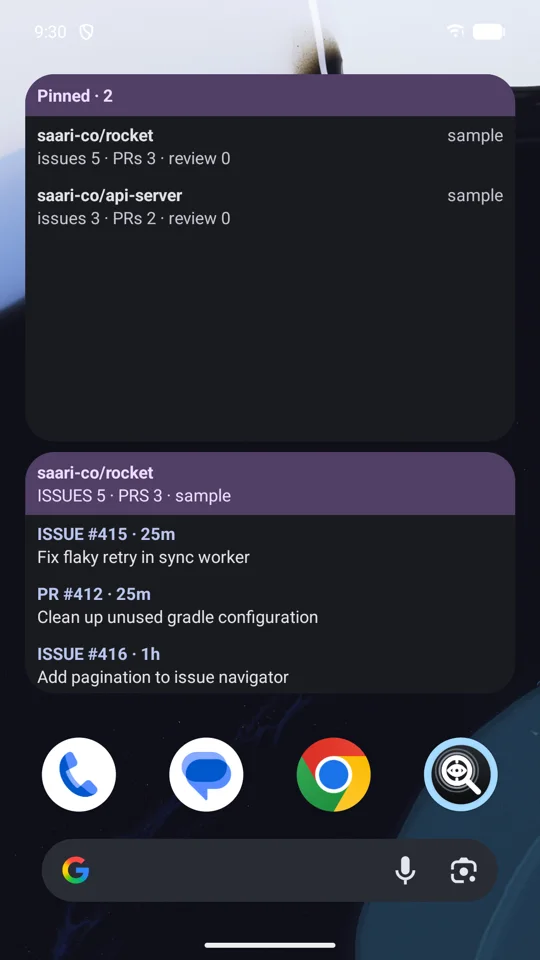
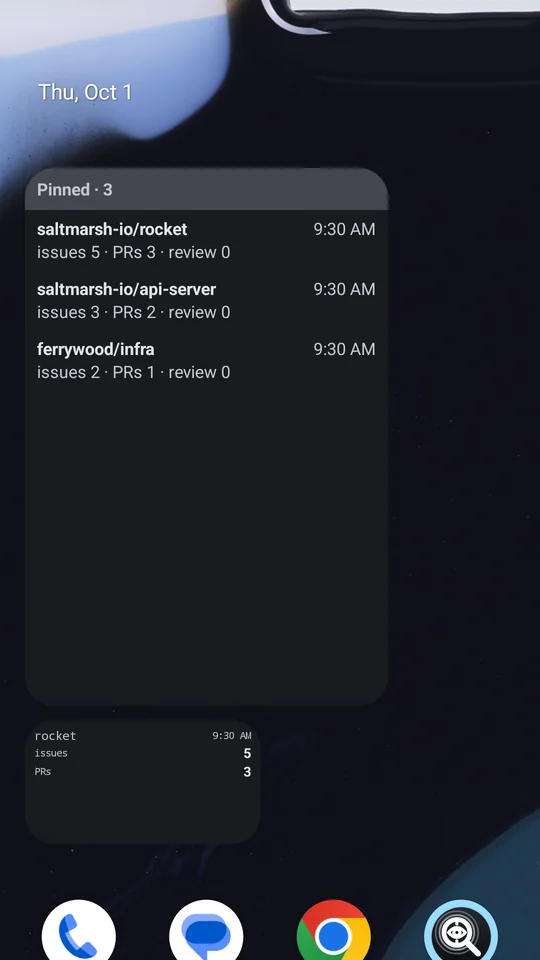
Imagery: implement site-imagery-007 (showcase captures, cut-out cards, the sign-in code screen)
The maintainer's hybrid from imagery round 1, locked 2026-10-01: candidate
C (cut-outs) with the sign-in code screen on the fourth home card and as
the join-page hero; that card's copy amended to describe GitHub's device
flow so it matches its image (site-copy-006, reopened and re-locked).
Images are RepoGlance's showcase-048 emulator captures (sample mode
without its marker under fictional owners; the sign-in code is a fixture),
cut into thirteen slugs at 540 and 1080 px; public/screenshots/ replaces
the Play listing's sample-mode captures. seed/seed.json carries the slugs
and the card; src/content/screenshots.ts the alt text and dimensions;
Screenshot.astro data-shot and per-slug sizes; site.css the cut-out
cards. AGENTS.md, docs/CHARTER.md, design.md v3 and docs/content.md state
the new imagery rule and sources; the content test and the smoke script
check the showcase assets, alt text and card images.

diff --git a/src/content/screenshots.ts b/src/content/screenshots.ts
@@ -1,29 +1,76 @@
 /**
- * The only images the site shows: sample-mode captures from the Play listing
- * release repoglance-play-listing-20260930-040 (docs/content.md). Every file
- * is 9:16; the 540 and 1080 widths serve a srcset.
+ * The only images the site shows: RepoGlance's showcase captures (GrillTrack
+ * site-imagery-007; the app's showcase-048): sample mode rendered without
+ * its marker under fictional owners on the approved emulator, so no screen
+ * shows a real account and no screen says sample. The sign-in code is a
+ * fixture. docs/content.md names the source release and hashes. Each slug
+ * ships at 540 and 1080 px wide; the dimensions are the 540 px file's.
  */
 export const screenshots = {
   'home-widgets': {
-    alt: 'A Pixel home screen with the RepoGlance Pinned repos widget listing two sample repositories and a tall Repository widget, every time slot reading sample',
+    width: 540,
+    height: 960,
+    alt: 'A Pixel home screen with the RepoGlance Pinned repos widget listing three made-up repositories and the compact Repository widget below it, each row with the time of its data and its open issue and pull request counts',
   },
   'catalog-pinned': {
-    alt: 'The RepoGlance catalog in sample mode: a SAMPLE banner, then pinned repositories sorted first with their open issue and pull request counts',
+    width: 540,
+    height: 960,
+    alt: 'The RepoGlance catalog: made-up repositories under fictional owners, pinned ones first, with the account filter, search and sort',
   },
   'repository-issues-and-prs': {
-    alt: 'A sample repository in RepoGlance showing its open issues and pull requests in one list',
+    width: 540,
+    height: 960,
+    alt: 'A made-up repository in RepoGlance showing its open issues and pull requests in one list, with authors, labels and ages',
   },
   'repository-prs': {
-    alt: 'A sample repository in RepoGlance filtered to open pull requests, one of them marked Draft',
-  },
-  'owner-filter': {
-    alt: 'The owner filter menu open over the sample catalog, listing the sample account and organizations',
-  },
-  'connect-or-explore-sample': {
-    alt: 'The first RepoGlance screen with Sign in with GitHub and Explore with sample data',
+    width: 540,
+    height: 960,
+    alt: 'A made-up repository in RepoGlance filtered to open pull requests, one of them marked Draft',
   },
   'quick-settings-tile': {
-    alt: 'The Quick Settings panel with the RepoGlance tile reading Sample data, a repository name and an age',
+    width: 540,
+    height: 960,
+    alt: 'The Quick Settings panel with the RepoGlance tile reading the latest push to a made-up repository',
+  },
+  'connect-or-explore-sample': {
+    width: 540,
+    height: 960,
+    alt: 'The first RepoGlance screen with Sign in with GitHub and Explore with sample data',
+  },
+  'widgets-cutout': {
+    width: 540,
+    height: 981,
+    alt: 'The RepoGlance Pinned repos widget listing three made-up repositories with their open issue and pull request counts, and the compact Repository widget below it, cut from a Pixel home screen',
+  },
+  'pinned-widget': {
+    width: 540,
+    height: 787,
+    alt: 'The RepoGlance Pinned repos widget: three made-up repositories, each with the time of its data and its open issue and pull request counts',
+  },
+  'repository-widget': {
+    width: 540,
+    height: 304,
+    alt: 'The compact RepoGlance Repository widget for a made-up repository: the time of its data, open issues 5, pull requests 3',
+  },
+  'catalog-rows': {
+    width: 540,
+    height: 540,
+    alt: 'Rows of the RepoGlance catalog: made-up repositories with their visibility and last push, pinned ones first',
+  },
+  'repository-rows': {
+    width: 540,
+    height: 540,
+    alt: 'Open issues of a made-up repository in RepoGlance, each with its number, title, author, comment count and age',
+  },
+  'tile-row': {
+    width: 540,
+    height: 420,
+    alt: 'The Quick Settings row with the RepoGlance tile showing the latest push to a made-up repository, beside the Internet tile',
+  },
+  'signin-code': {
+    width: 540,
+    height: 960,
+    alt: 'The RepoGlance sign-in screen: a short code to enter on GitHub, how long it lasts, and the Copy code & open GitHub button; the code shown is made up',
   },
 } as const;
 

diff --git a/src/styles/site.css b/src/styles/site.css
@@ -78,8 +78,13 @@ nav { display: flex; gap: 1rem; font-family: var(--mono); font-size: 0.82rem; }
 /* Home features: a snap-scrolling row of hairline cards. */
 .showcase { display: flex; gap: 1rem; overflow-x: auto; scroll-snap-type: x mandatory; padding: 2rem 16px; margin: 0 -16px; scrollbar-width: thin; }
 .feature { flex: 0 0 min(78vw, 300px); scroll-snap-align: start; display: flex; flex-direction: column; border: 1px solid var(--line); border-radius: 10px; padding: 0 1rem 1.25rem; }
-.feature .shot { order: -1; margin: 0 -1rem 1rem; }
-.feature .shot img { width: 100%; max-width: 100%; height: 280px; object-fit: cover; object-position: top; border-radius: 10px 10px 0 0; }
+/* Card images are cut-outs of the element the card is about, set on the card
+   with their own corners (site-imagery-007). */
+.feature .shot { order: -1; margin: 0 0 1rem; padding: 1rem 0 0; }
+.feature .shot img { width: 100%; max-width: 100%; height: 280px; object-fit: cover; object-position: center top; border-radius: 12px; }
+.feature .shot[data-shot="pinned-widget"] img, .feature .shot[data-shot="repository-widget"] img, .feature .shot[data-shot="widgets-cutout"] img { border-radius: 16px; }
+.feature .shot[data-shot="tile-row"] img { object-position: left top; }
+.feature .shot[data-shot="signin-code"] img, .feature .shot[data-shot="connect-or-explore-sample"] img { object-position: center 50%; }
 .feature h2 { font-family: var(--mono); font-size: 0.8rem; font-weight: 600; margin: 0 0 0.5rem; }
 .feature p { color: var(--muted); font-size: 0.95rem; margin: 0; }
 

diff --git a/design.md b/design.md
@@ -1,10 +1,11 @@
 # Design contract: repoglance.com
 
-- **Version:** 2 (2026-10-01): the copy in the locked layout
-  [site-copy-006], decided in one five-candidate round and a confirmed
-  hybrid. Version 1 (2026-10-01) locked the layout and visual language
-  [site-look-005] after four rounds and a confirmed hybrid; version 0
-  (2026-10-01) started the file with constraints only.
+- **Version:** 3 (2026-10-01): the imagery [site-imagery-007], decided in
+  one five-candidate round and a confirmed hybrid, with one card's copy
+  amended to match [site-copy-006]. Version 2 (2026-10-01) locked the copy
+  [site-copy-006]; version 1 (2026-10-01) locked the layout and visual
+  language [site-look-005]; version 0 (2026-10-01) started the file with
+  constraints only.
 - **Canonical path:** `design.md` at the repository root.
 - **Decision history:** `.grilltrack/ledger.json`. Where they disagree, the
   ledger owns history and this file owns the current, implementable design.
@@ -21,7 +22,10 @@
   Material 3 colour roles with light and dark themes. The site reads as the
   same crew without pretending to be an Android screen.
 - **Hard constraints:**
-  - Truth first: only proven behaviour, every screenshot from sample mode.
+  - Truth first: only proven behaviour; every screenshot is a showcase
+    capture of made-up repositories under fictional owners, never a live
+    account, never a screen that says sample, and the sign-in code shown
+    is a fixture.
   - No Google or GitHub brand assets; no Gemini sparkle, no four-colour sweep.
   - Both colour schemes, phone width first, no horizontal scroll, keyboard
     reachable, visible focus.
@@ -34,9 +38,31 @@
 - **Mark:** the header inlines the commit-eye magnifier so `currentColor`
   follows the scheme; `public/mark.svg` and `public/favicon.svg` carry the
   same geometry, converted from the app's launcher vectors.
-- **Imagery:** seven sample-mode captures from the Play listing release
-  `repoglance-play-listing-20260930-040`, 540 and 1080 px WebP under
-  `public/screenshots/` (`docs/content.md`).
+- **Imagery [site-imagery-007, "C with the sign-in code screen"]:** the
+  app's showcase captures (RepoGlance `showcase-048`: sample mode rendered
+  without its marker under the fictional owners `saltmarsh-io`,
+  `ferrywood` and `elin-tidewater` on the approved emulator's cover
+  display, dark theme, SystemUI demo clock at 9:30), cut into 540 and 1080
+  px WebP under `public/screenshots/` (`docs/content.md` has the source
+  release, hashes and crops). Thirteen slugs ship so the CMS can pick any:
+  six phone frames (9:16 crops) and seven cut-outs. The pages use: the
+  home hero shows the home screen phone with both widgets; the four cards
+  show the element each card is about, cut from the capture and set on
+  the card with its own corners (the Pinned repos widget, the catalog
+  rows, the Quick Settings row with the tile, the sign-in code screen as
+  a centred phone crop); the join hero shows the sign-in code screen phone
+  at 220 px. `Screenshot.astro` carries `data-shot` and each slug's own
+  dimensions; `site.css` sets the card image to 280 px, `object-fit:
+  cover` from the top with 12 px corners (16 px for widgets, left-aligned
+  for the tile row, centred for phones).
+  - **Rejected (round 1, do not reintroduce without a new grill):** the
+    shipped framing of top-cropped phones (A), aimed phone crops (B),
+    scheme-matched images via `<picture>` (D), the widgets cut-out as the
+    hero with no phone (E), and the Connect screen for the sign-in slots
+    (the hybrid replaced it with the device-code screen).
+  - **Rejected earlier:** the Play listing's sample-mode captures (the
+    foundation's imagery, reopened by the maintainer on 2026-10-01: marked
+    SAMPLE throughout and cropped without regard to the cards).
 - **Content structure:** `seed/seed.json` blocks `hero`, `feature`,
   `fact_list`, `steps`, `cta`, `text_section`, rendered through EmDash's
   native `Blocks`. `ContentPage.astro` groups consecutive `feature` blocks
@@ -123,20 +149,28 @@
     the benefit-first second person (B), the facts-first register on the
     home page (C, kept only for the join page's steps and build list),
     the formal privacy-led register (E).
+  - **Amended with the imagery lock:** the fourth home card reads "When
+    you sign in" and describes GitHub's device flow, matching its sign-in
+    code image; the sample-mode entry stays as its last sentence.
 - **Proof:** `.grilltrack/proof/look-round-1-captures-20261001.md` to
   `look-round-4-captures-20261001.md`,
   `look-hybrid-1-captures-20261001.md`, the production verification in
   `.grilltrack/proof/site-look-005-verify-20261001.md`; for the copy,
   `copy-round-1-captures-20261001.md`,
   `copy-hybrid-1-captures-20261001.md` and
-  `site-copy-006-verify-20261001.md`.
+  `site-copy-006-verify-20261001.md`; for the imagery,
+  `imagery-round-1-captures-20261001.md`,
+  `imagery-hybrid-1-captures-20261001.md` and
+  `site-imagery-007-verify-20261001.md`.
 
 ## Unresolved (decided by GrillTrack, one slot per round)
 
 - **Typography roles beyond system faces:** not grilled; system faces are
   the lock until a font round says otherwise.
 - **Motion:** none today; the slider scrolls natively. Not grilled.
-- **Open Graph image:** still the Play feature graphic. Not grilled.
+- **Open Graph image:** still the Play feature graphic (sample-mode art
+  from the listing). Not grilled; next in line now that the page imagery
+  is showcase captures.
 
 ## Verification expectations
 

diff --git a/docs/content.md b/docs/content.md
@@ -32,21 +32,48 @@ the seed and that check together.
 
 ## Screenshots
 
-All seven captures are sample mode (**Explore with sample data**) from the
-private asset release
-`saari-co/swarm-pr-assets` `repoglance-play-listing-20260930-040`, taken on
-the approved emulator from `main` at `d7421d3`. They were resized with `sips`
-to 540 and 1080 px wide and encoded with `cwebp -q 84`. Source SHA-256s:
+Every image under `public/screenshots/` is a cut of a RepoGlance showcase
+capture (GrillTrack `site-imagery-007`; the app's `showcase-048`): sample
+mode rendered without its marker under the fictional owners
+`saltmarsh-io`, `ferrywood` and `elin-tidewater` (each a 404 on GitHub on
+2026-10-01), on the approved emulator (AVD `Pixel_10_Pro_Fold`, API 36)
+cover display at 1080x2364, SystemUI demo clock at 9:30 with the device
+clock set to match, dark theme. No capture shows a real account, no screen
+says sample, and the sign-in screen shows the fixture code `HK7N-4R2D`
+from the app's debug-only preview, never a GitHub-issued code. The
+captures are in the private asset release
+`saari-co/swarm-pr-assets` `repoglance-showcase-048-20261001`; the app's
+proof is `.grilltrack/proof/showcase-048-verify-20261001.md` in
+`saari-co/RepoGlance`. Source SHA-256s (the dark files are the ones cut;
+the light files are kept for a later scheme round):
 
 | Source file | SHA-256 |
 | --- | --- |
[22 lines of base64/hex data omitted]
+
+The cuts (Pillow, WebP quality 84, 540 and 1080 px wide): phone frames are
+9:16 crops of the 1080x2364 capture from the top (`home-widgets` from
+y = 120 so the smartspace, both widgets, the hotseat and the search bar
+stay in frame); cut-outs are the element's own box from the launcher and
+app dumps: `widgets-cutout` (30,436)-(796,1828), `pinned-widget`
+(30,436)-(796,1552), `repository-widget` (30,1540)-(541,1828),
+`catalog-rows` (0,840)-(1080,1920), `repository-rows` (0,600)-(1080,1680),
+`tile-row` (0,560)-(1080,1400). `src/content/screenshots.ts` carries each
+slug's alt text and the 540 px file's dimensions.
 
 `public/og-image.png` is the Play feature graphic and `public/icon-512.png`
 the Play icon from the same release. The marks in `public/mark.svg` and

diff --git a/AGENTS.md b/AGENTS.md
@@ -18,8 +18,11 @@ closed test. Assume every committed byte is public.
   Play opt-in link until Play Console shows one.
 - Product copy lives in `seed/seed.json`; `tests/content.test.mjs` checks it
   for banned claims and required links. Change the copy and the test together.
-- Imagery is sample mode only (the Play listing screenshots). Never a live
-  account's data.
+- Imagery is RepoGlance's showcase captures: sample mode rendered without
+  its marker under fictional owners on the approved emulator (the app's
+  debug-only `showcase-048`), with a made-up sign-in code. Never a live
+  account's data, never a screen that says sample, never a GitHub-issued
+  code; `docs/content.md` names the source release and hashes.
 - The privacy policy stays at `https://saari-co.github.io/RepoGlance/privacy/`,
   where the Play listing points. This site links to it and serves no copy.
 - The tester signup link is the maintainer's. Never guess a URL.

diff --git a/docs/CHARTER.md b/docs/CHARTER.md
@@ -24,7 +24,9 @@ Decided on 2026-10-01 in the `saari-co/RepoGlance` GrillTrack ledger
 ## What the site must not do
 
 - Claim behaviour the app has not shipped and proven on `main`.
-- Show a real account's data; every screenshot is sample mode.
+- Show a real account's data; every screenshot is a showcase capture of
+  made-up repositories under fictional owners (sample mode without its
+  marker), and the sign-in code shown is a fixture.
 - Collect anything: no forms, accounts, analytics or trackers.
 - Act as a GitHub client, a dashboard or a chat surface.
 
